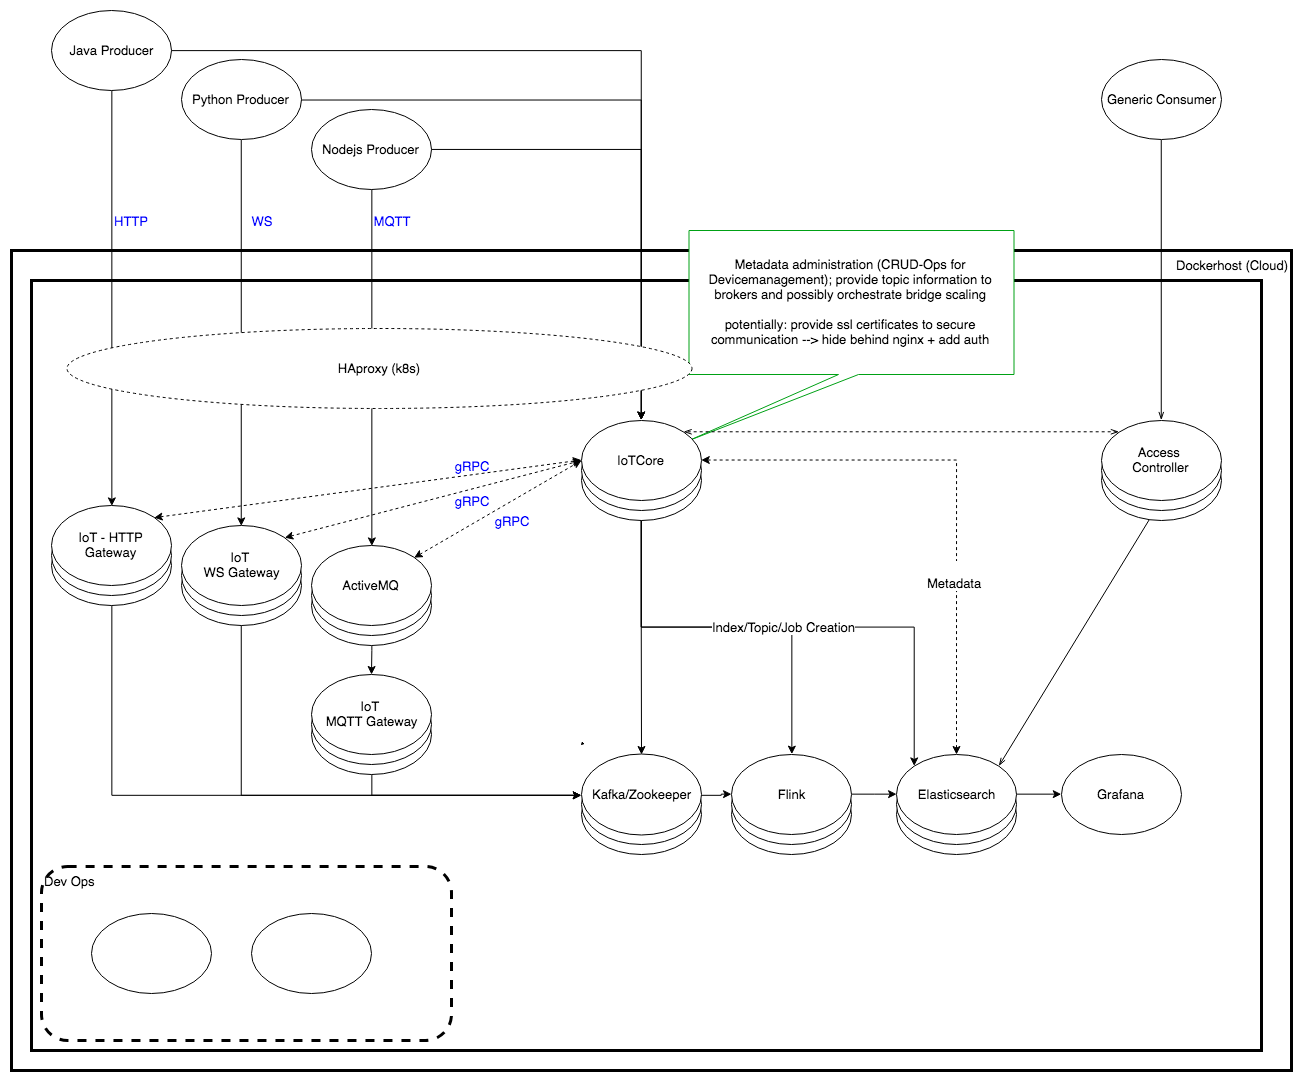
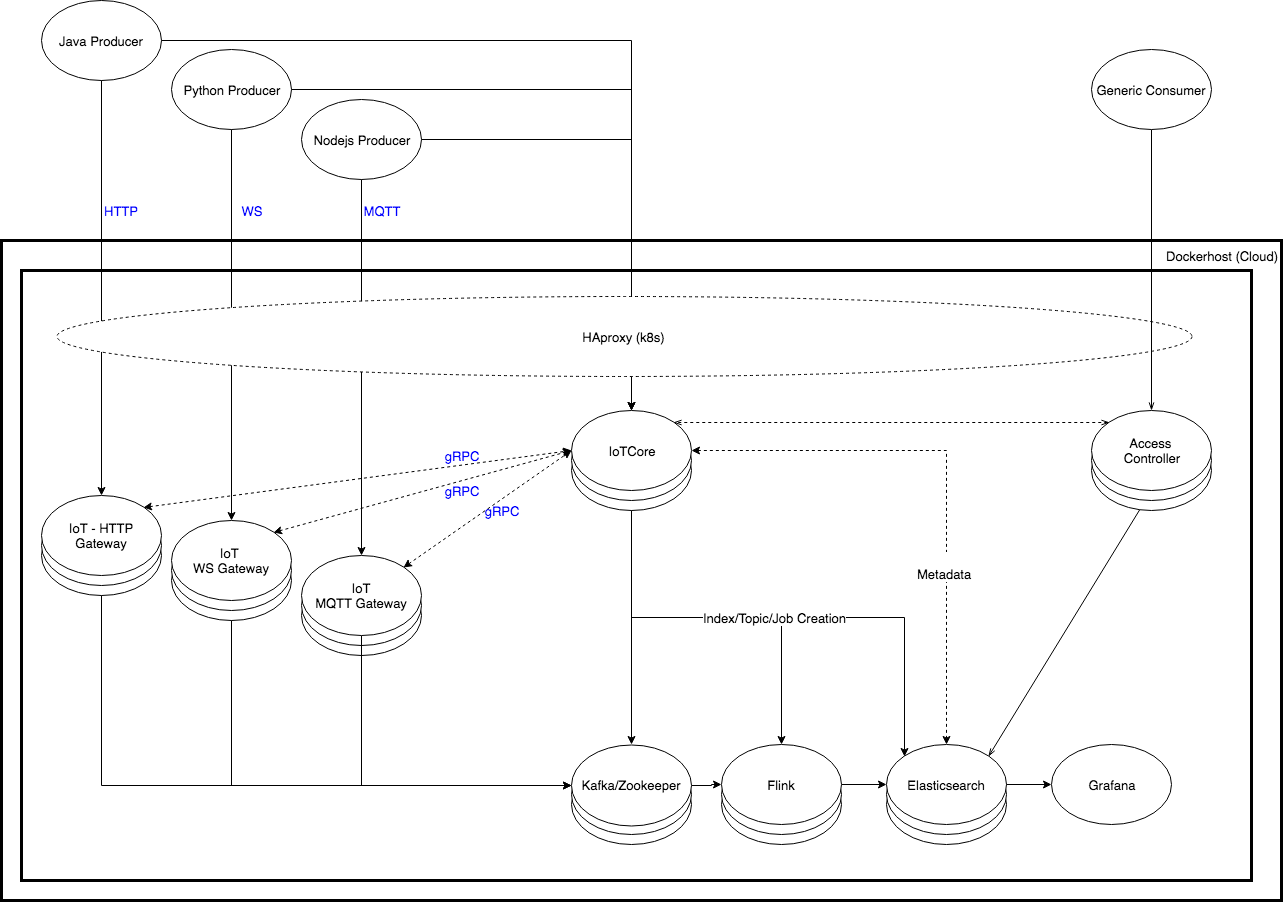
add little bit documentation

diff --git a/README.md b/README.md
@@ -2,4 +2,42 @@
 [![Build Status](https://travis-ci.com/heldic/iotplatform.svg?token=UgRpWYHRU3yqYszd3B6x&branch=master)](https://travis-ci.com/heldic/iotplatform)
 
 ## Architecture
+### Overview
 <img src="./doc/iotplatform.png" />
+### Components (Plan!)
+#### IoTCore
+- Metadata administration (CRUD-operations for devicemanagement)
+- Create topics/indices/jobs within cluster components
+- Check authorization of incoming requests
+- Provide metadata information to gateways upon request, according to predefined schema
+
+#### MQTT/HTTP/WS Gateway
+- Cloud gateways enabling data ingestion
+- Different protocols are supported by different gateways (depending on load, respective gateways can be scaled)
+- Gateways enrich incoming sensordata with respective device information
+- Data is forwarded to Kafka, topic is received from IoTCore
+
+#### AccessController
+- API that acts as buffer between consumer and Elasticsearch
+- Check with IoTCore whether user is authorized to receive requested information
+
+#### Kafka/Zookeeper
+- Big data stream (collecting data from all gateways, no matter the protocol)
+- Act as single point of information for processing layer
+
+#### Flink
+- Offer possibilities to add batch processing or analytical jobs
+- Consume Kafka topics provided by IoTCore and forward data to Elasticsearch
+
+#### Elasticsearch
+- Peristence
+
+#### Grafana
+- Monitoring opportunity for Elasticsearch (Dev Ops)
+
+#### Java/Node.js/Python Producer
+- Sample producers to simulate the supported protocols
+- Constructed scalable to simulate high loads on cluster
+
+#### GenericConsumer
+- Sample consumer that accesses various APIs 
